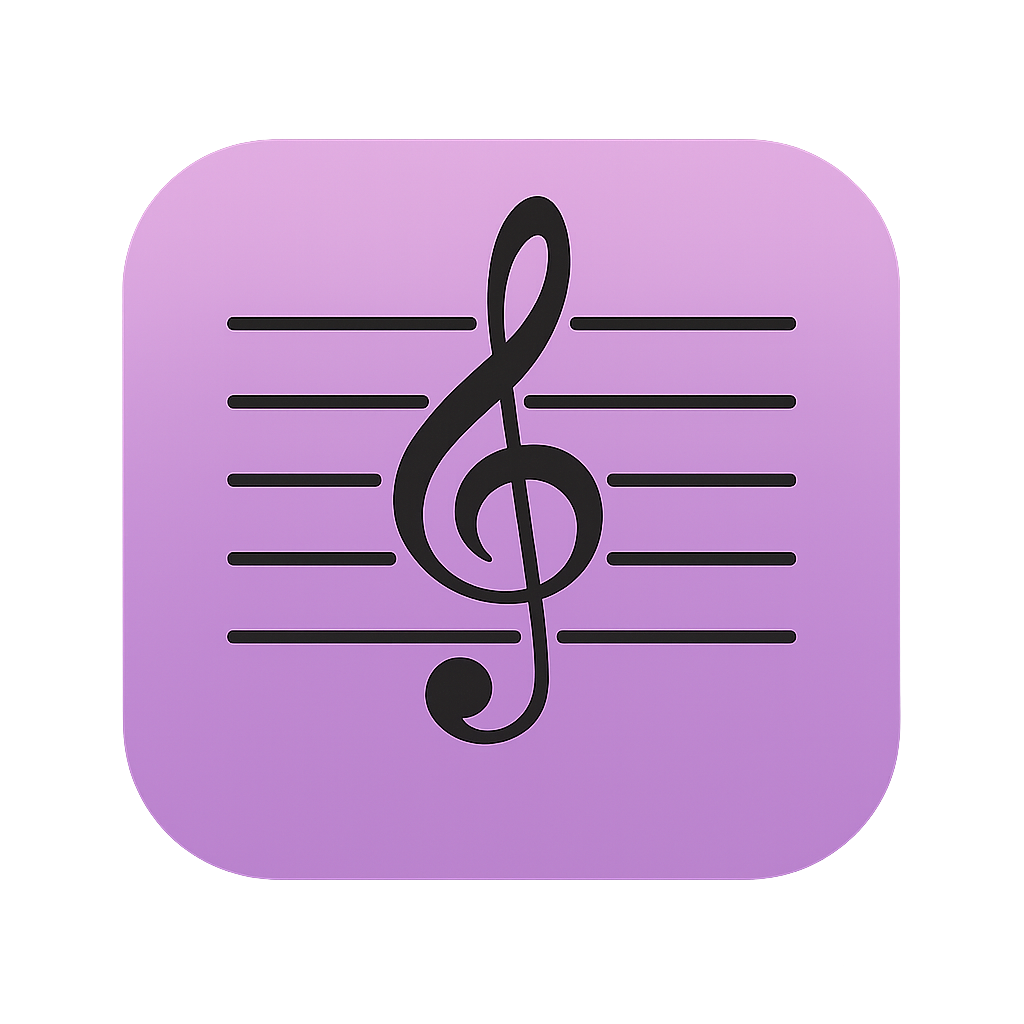
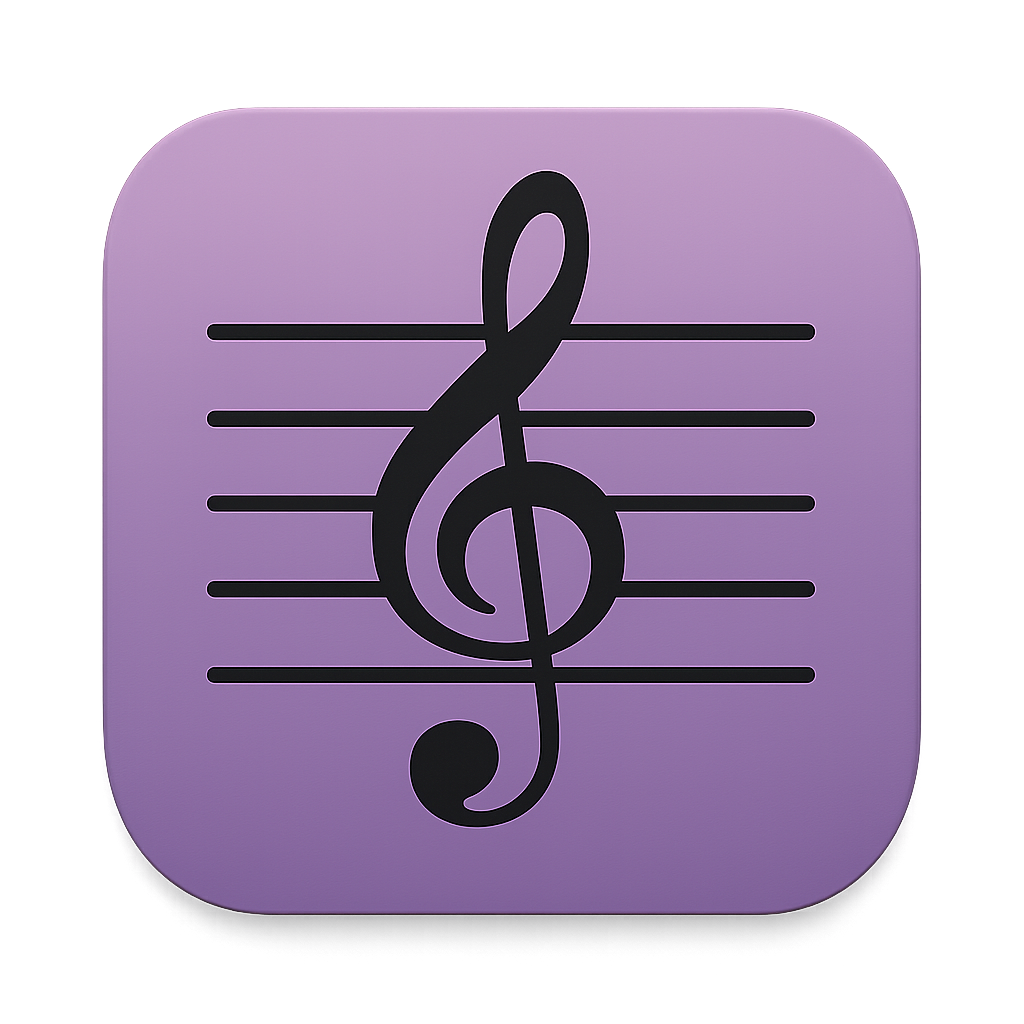
Altera texto do credito e icone do app

diff --git a/tabuada_do_musico/lib/pages/creditos_page.dart b/tabuada_do_musico/lib/pages/creditos_page.dart
@@ -11,14 +11,44 @@ class CreditosPage extends StatelessWidget {
           title: const Text('Creditos'),
         ),
         body: Container(
-            padding: EdgeInsets.all(40),
-            child:
-                Column(mainAxisAlignment: MainAxisAlignment.center, children: [
+          padding: EdgeInsets.symmetric(horizontal: 28.0, vertical: 32.0),
+          child: Column(
+            mainAxisAlignment: MainAxisAlignment.center,
+            crossAxisAlignment: CrossAxisAlignment.start,
+            children: [
               Text(
-                "Este aplicativo foi desenvolvido como parte do Trabalho de Conclusão de Curso (TCC) do Bacharelado em Ciência da Computação, com o objetivo de proporcionar uma abordagem interativa e gamificada para o estudo de elementos fundamentais do campo que constitui a harmonia. \n\nIdealizado e implementado por \nJorge Augusto Rocha de Carvalho \ne Matheus Silva Araújo. \n\nSob orientação de Daniel da Silva Souza.",
-                style: TextStyle(fontSize: 18),
+                "Este aplicativo foi desenvolvido como parte do Trabalho de Conclusão de Curso do Bacharelado em Ciência da Computação.",
+                style: TextStyle(fontSize: 16, height: 1.5),
                 textAlign: TextAlign.justify,
-              )
-            ])));
+              ),
+              SizedBox(height: 16),
+              Text(
+                "Seu objetivo é oferecer uma abordagem interativa e gamificada para o estudo de elementos fundamentais da harmonia musical.",
+                style: TextStyle(fontSize: 16, height: 1.5),
+                textAlign: TextAlign.justify,
+              ),
+              SizedBox(height: 32),
+              Text(
+                "Idealizado e implementado por",
+                style: TextStyle(fontSize: 16, fontWeight: FontWeight.bold),
+              ),
+              SizedBox(height: 8),
+              Text(
+                "Jorge Augusto Rocha de Carvalho\nMatheus Silva Araújo",
+                style: TextStyle(fontSize: 16),
+              ),
+              SizedBox(height: 24),
+              Text(
+                "Orientador",
+                style: TextStyle(fontSize: 16, fontWeight: FontWeight.bold),
+              ),
+              SizedBox(height: 8),
+              Text(
+                "Daniel da Silva Souza",
+                style: TextStyle(fontSize: 16),
+              ),
+            ],
+          ),
+        ));
   }
 }

diff --git a/tabuada_do_musico/lib/pages/home_page.dart b/tabuada_do_musico/lib/pages/home_page.dart
@@ -39,10 +39,13 @@ class _HomePageState extends State<HomePage> {
                   textAlign: TextAlign.center),
             ),
             const SizedBox(height: 20),
-            Image.asset(
-              'assets/images/clave_de_sol_1.png',
-              width: 150,
-              height: 150,
+            Opacity(
+              opacity: 0.85,
+              child: Image.asset(
+                'assets/images/clave_de_sol_1.png',
+                width: 150,
+                height: 150,
+              ),
             ),
             const SizedBox(height: 20),
             ElevatedButton(
